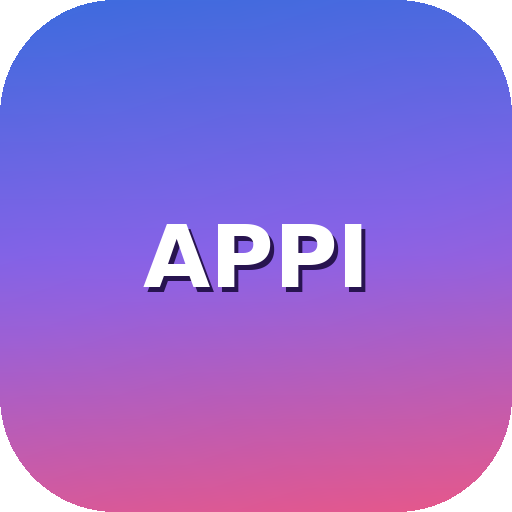
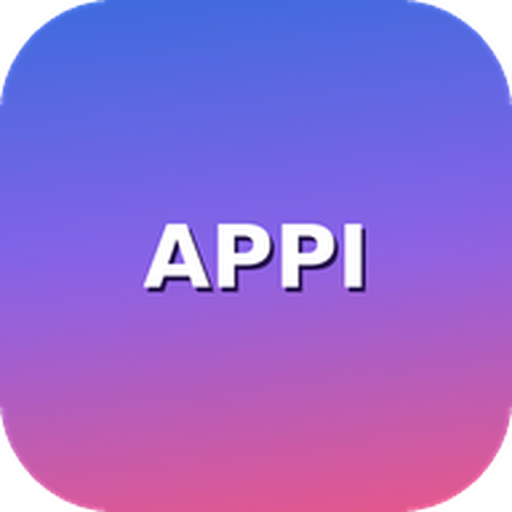
fix(pwa): quitar el splash azul con el ícono cuadrado al abrir en el celular
El arranque del sistema usaba un fondo oscuro y el ícono de 512 en cuadrado.
Ahora el splash es el mismo celeste del boot, con el ícono redondeado, y
iPhone tiene imágenes de apertura propias.

diff --git a/index.html b/index.html
@@ -62,11 +62,26 @@ window.openStock=function(){
 <meta name="apple-mobile-web-app-status-bar-style" content="default" />
 <meta name="apple-mobile-web-app-title" content="APPI" />
 <meta name="mobile-web-app-capable" content="yes" />
-<meta name="theme-color" content="#1b1038" />
+<meta name="theme-color" content="#eef4ff" />
 <title>APPI</title>
 <link rel="icon" href="./icon-192.png" />
 <link rel="apple-touch-icon" href="./apple-touch-icon.png" />
 <link rel="manifest" href="./manifest.json" />
+<link rel="apple-touch-startup-image" href="./splash/apple-splash-1170x2532.png" />
+<link rel="apple-touch-startup-image" href="./splash/apple-splash-1290x2796.png" media="(device-width: 430px) and (device-height: 932px) and (-webkit-device-pixel-ratio: 3) and (orientation: portrait)" />
+<link rel="apple-touch-startup-image" href="./splash/apple-splash-1179x2556.png" media="(device-width: 393px) and (device-height: 852px) and (-webkit-device-pixel-ratio: 3) and (orientation: portrait)" />
+<link rel="apple-touch-startup-image" href="./splash/apple-splash-1170x2532.png" media="(device-width: 390px) and (device-height: 844px) and (-webkit-device-pixel-ratio: 3) and (orientation: portrait)" />
+<link rel="apple-touch-startup-image" href="./splash/apple-splash-1284x2778.png" media="(device-width: 428px) and (device-height: 926px) and (-webkit-device-pixel-ratio: 3) and (orientation: portrait)" />
+<link rel="apple-touch-startup-image" href="./splash/apple-splash-1242x2688.png" media="(device-width: 414px) and (device-height: 896px) and (-webkit-device-pixel-ratio: 3) and (orientation: portrait)" />
+<link rel="apple-touch-startup-image" href="./splash/apple-splash-828x1792.png" media="(device-width: 414px) and (device-height: 896px) and (-webkit-device-pixel-ratio: 2) and (orientation: portrait)" />
+<link rel="apple-touch-startup-image" href="./splash/apple-splash-1125x2436.png" media="(device-width: 375px) and (device-height: 812px) and (-webkit-device-pixel-ratio: 3) and (orientation: portrait)" />
+<link rel="apple-touch-startup-image" href="./splash/apple-splash-1242x2208.png" media="(device-width: 414px) and (device-height: 736px) and (-webkit-device-pixel-ratio: 3) and (orientation: portrait)" />
+<link rel="apple-touch-startup-image" href="./splash/apple-splash-750x1334.png" media="(device-width: 375px) and (device-height: 667px) and (-webkit-device-pixel-ratio: 2) and (orientation: portrait)" />
+<link rel="apple-touch-startup-image" href="./splash/apple-splash-2048x2732.png" media="(device-width: 1024px) and (device-height: 1366px) and (-webkit-device-pixel-ratio: 2) and (orientation: portrait)" />
+<link rel="apple-touch-startup-image" href="./splash/apple-splash-1668x2388.png" media="(device-width: 834px) and (device-height: 1194px) and (-webkit-device-pixel-ratio: 2) and (orientation: portrait)" />
+<link rel="apple-touch-startup-image" href="./splash/apple-splash-1640x2360.png" media="(device-width: 820px) and (device-height: 1180px) and (-webkit-device-pixel-ratio: 2) and (orientation: portrait)" />
+<link rel="apple-touch-startup-image" href="./splash/apple-splash-1620x2160.png" media="(device-width: 810px) and (device-height: 1080px) and (-webkit-device-pixel-ratio: 2) and (orientation: portrait)" />
+<link rel="apple-touch-startup-image" href="./splash/apple-splash-1536x2048.png" media="(device-width: 768px) and (device-height: 1024px) and (-webkit-device-pixel-ratio: 2) and (orientation: portrait)" />
 <script src="./auth-config.js"></script>
 <script src="./appi-dialog.js"></script>
 <script src="./whatsapp-app.js"></script>
@@ -10453,7 +10468,7 @@ document.getElementById('importInput').onchange = (e)=>{
   const applyTheme = (dark)=>{
     document.body.classList.toggle('dark', dark);
     const meta = document.querySelector('meta[name="theme-color"]');
-    if(meta) meta.setAttribute('content', dark ? '#0f1424' : '#1b1038');
+    if(meta) meta.setAttribute('content', dark ? '#0f1424' : '#eef4ff');
     if(currentRueda && document.getElementById('view-wheel').classList.contains('active')) renderWheel();
   };
   applyTheme(localStorage.getItem('themeDark') === '1');

diff --git a/tests/e2e/pwa-cache.spec.js b/tests/e2e/pwa-cache.spec.js
@@ -9,6 +9,13 @@ test('la versión visible, el paquete y el Service Worker están alineados', () 
   expect(html).toContain('APPI · v250 · Segura');
   expect(html).toContain("service-worker.js?v=250");
   expect(sw).toContain("CACHE_NAME = 'appi-v250-");
+  const manifest=JSON.parse(read('manifest.json'));
+  expect(manifest.background_color).toBe('#eef4ff');
+  expect(manifest.theme_color).toBe('#eef4ff');
+  expect(html).toContain('theme-color" content="#eef4ff"');
+  expect(html).toContain('apple-touch-startup-image');
+  expect(fs.existsSync('splash/apple-splash-1170x2532.png')).toBe(true);
+  expect(fs.existsSync('icon-512.png')).toBe(true);
 });
 
 test('el App Shell sólo referencia archivos existentes e incluye los módulos activos', () => {

diff --git a/service-worker.js b/service-worker.js
@@ -1,4 +1,4 @@
-const CACHE_NAME = 'appi-v250-home-listo';
+const CACHE_NAME = 'appi-v250-splash';
 const CACHE_PREFIX = 'appi-';
 const APP_SHELL = [
   './',

diff --git a/CAMBIOS_v250.md b/CAMBIOS_v250.md
@@ -111,7 +111,12 @@ El workflow `.github/workflows/deploy-backend.yml` ahora:
 
 - El diálogo **¿Quién sos?** salió de `#lockScreen`. En el teléfono, `pageshow` (PWA / bfcache) llamaba a `forzarScrollLibre()`, tapaba la elección y dejaba un Home a medias.
 - Si falta elegir titular o socio, el overlay se mantiene visible y la app no arranca el Home ni limpia las herramientas.
-- Caché PWA: `appi-v250-home-listo`. Recargar o borrar datos del sitio si quedó el Service Worker viejo.
+- Caché PWA: `appi-v250-splash`. Recargar o borrar datos del sitio si quedó el Service Worker viejo.
+
+## Apertura en el celular
+
+- Al abrir la PWA ya no sale la pantalla azul oscura con el ícono cuadrado. El splash usa el mismo fondo claro que la carga (`#eef4ff`) y el ícono redondeado de APPI.
+- En iPhone se agregaron imágenes de arranque (`apple-touch-startup-image`) para que no aparezca un recuadro feo antes del boot.
 - Después de elegir titular o socio ya no hay un pantallazo de Home roto: el diálogo se queda en **Entrando…** hasta que el Home está pintado.
 
 ## Verificación
